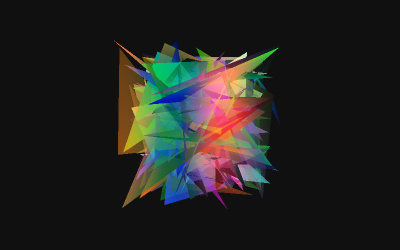
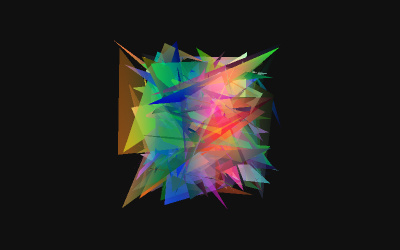
ShaderMaterial: Disable two-pass rendering by default (#25720)
* Disable two-pass rendering

* Update screenshot

* Update screenshot

diff --git a/src/materials/ShaderMaterial.js b/src/materials/ShaderMaterial.js
@@ -30,6 +30,8 @@ class ShaderMaterial extends Material {
 		this.lights = false; // set to use scene lights
 		this.clipping = false; // set to use user-defined clipping planes
 
+		this.forceSinglePass = true;
+
 		this.extensions = {
 			derivatives: false, // set to use derivatives
 			fragDepth: false, // set to use fragment depth values
